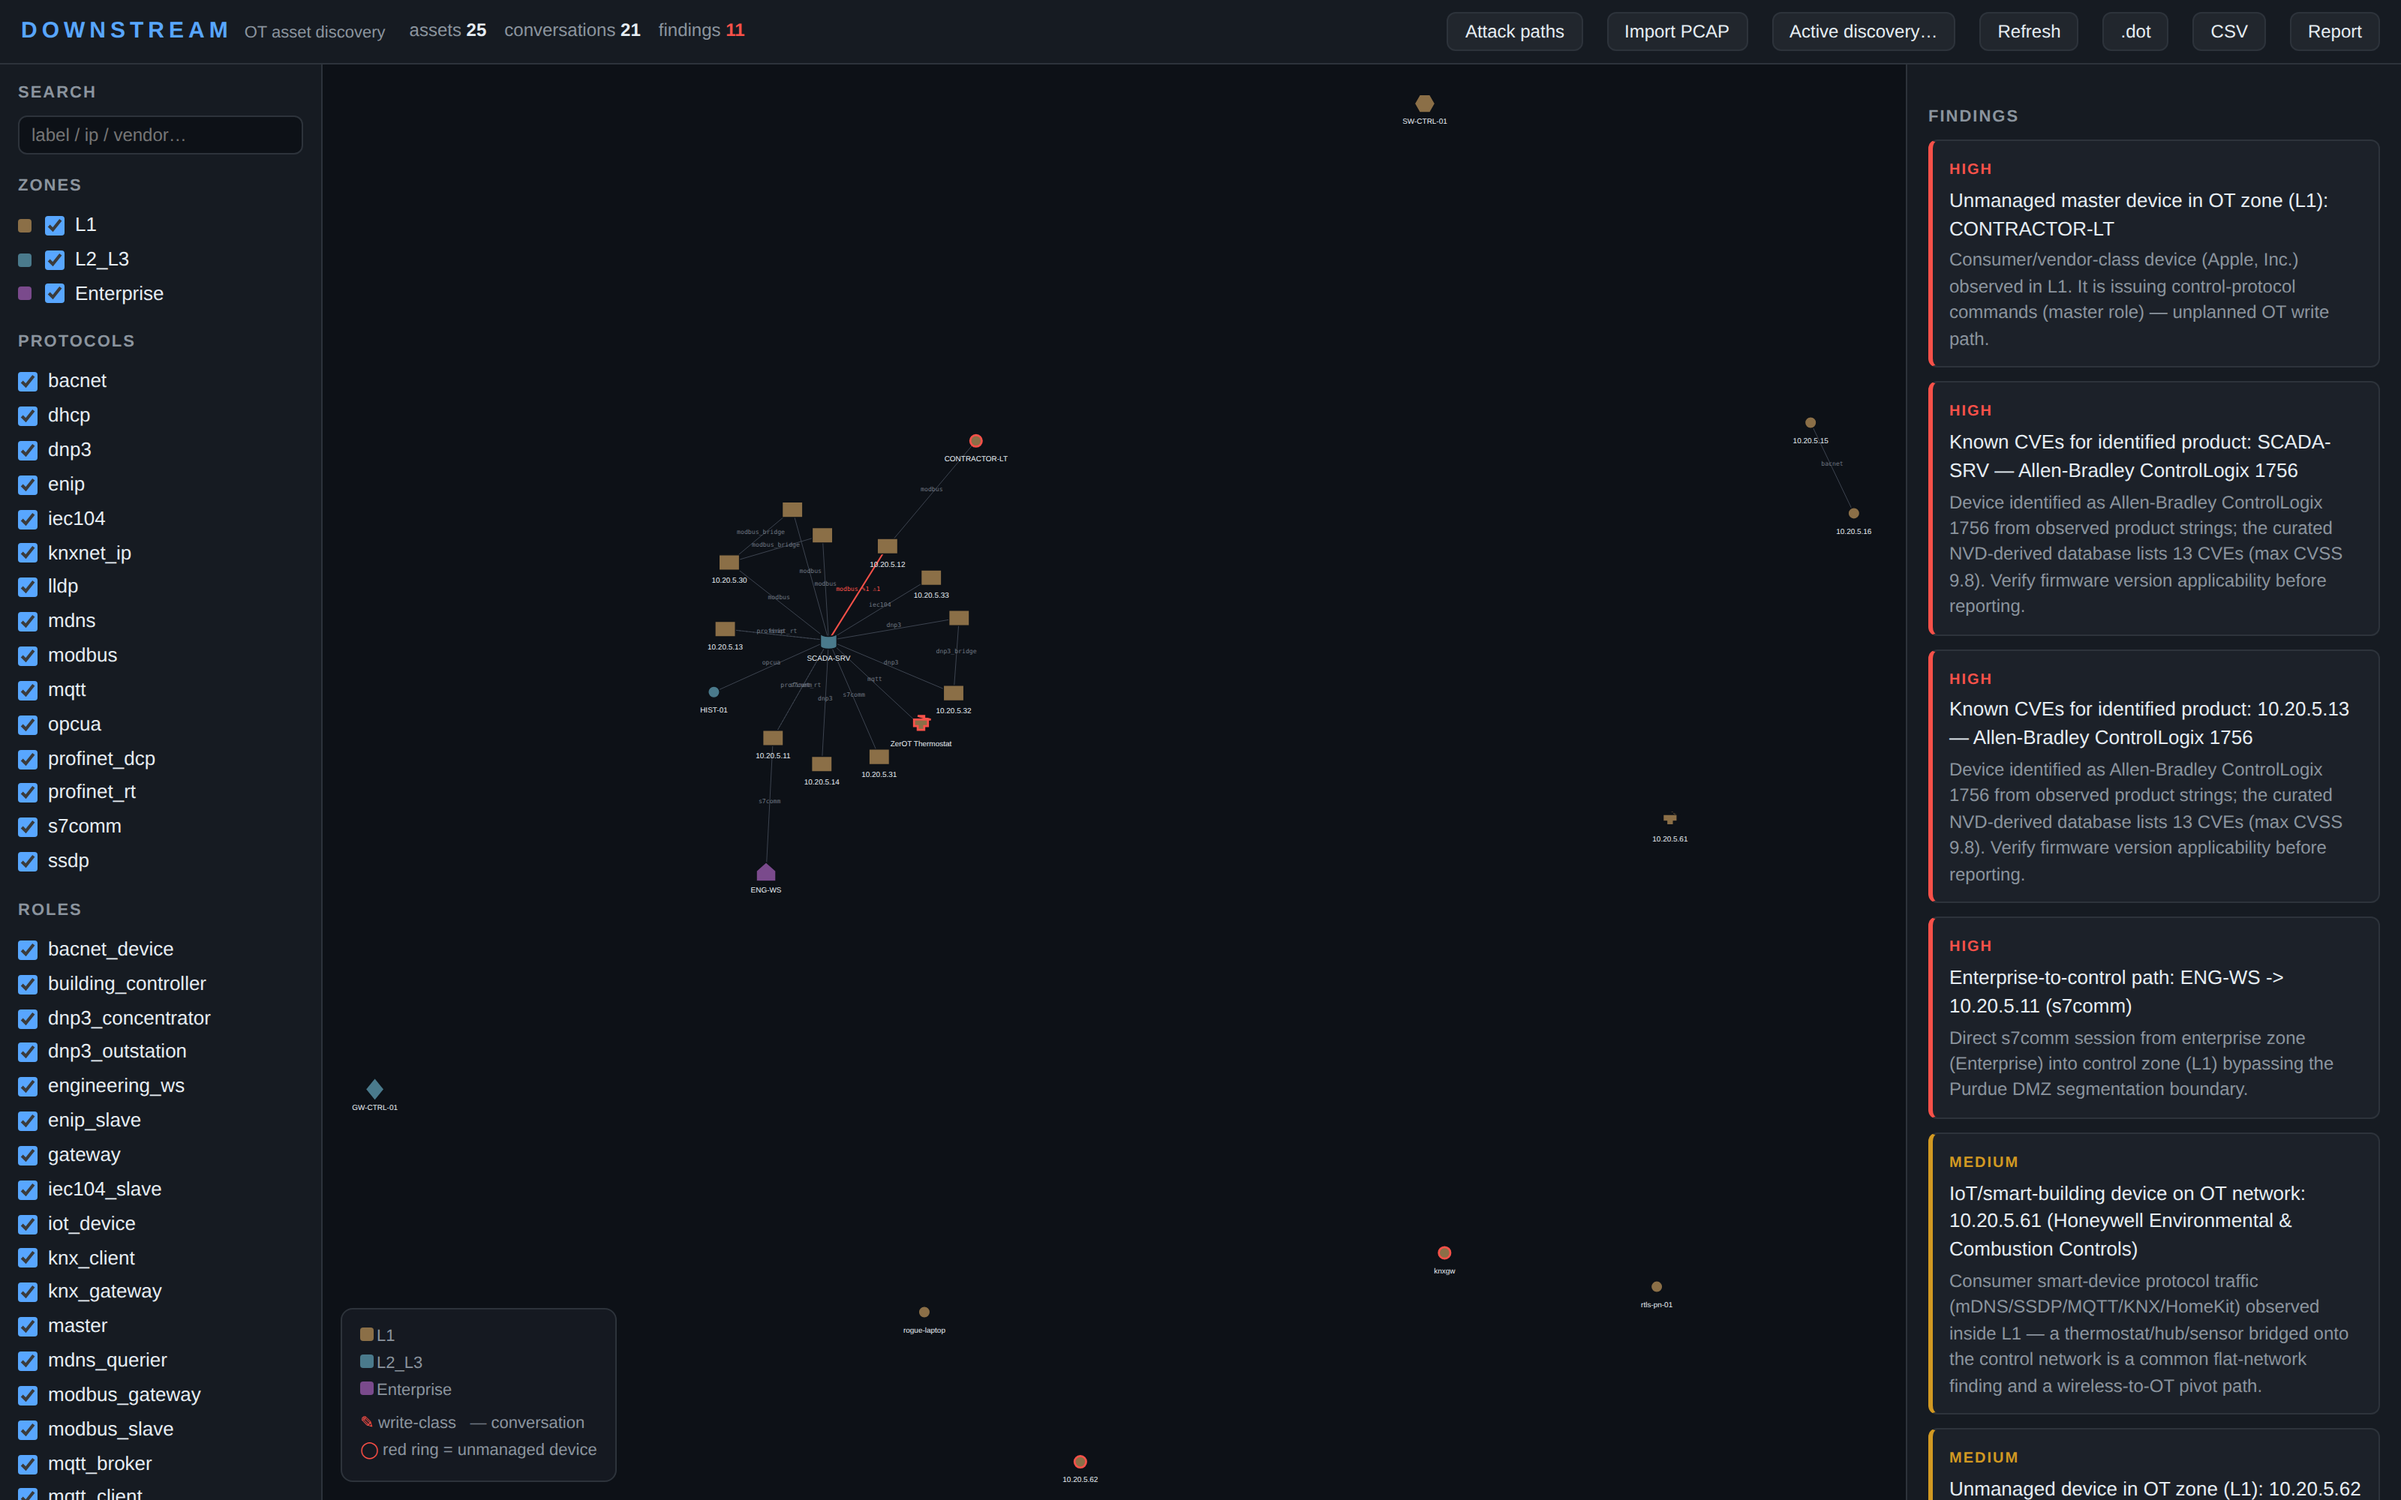
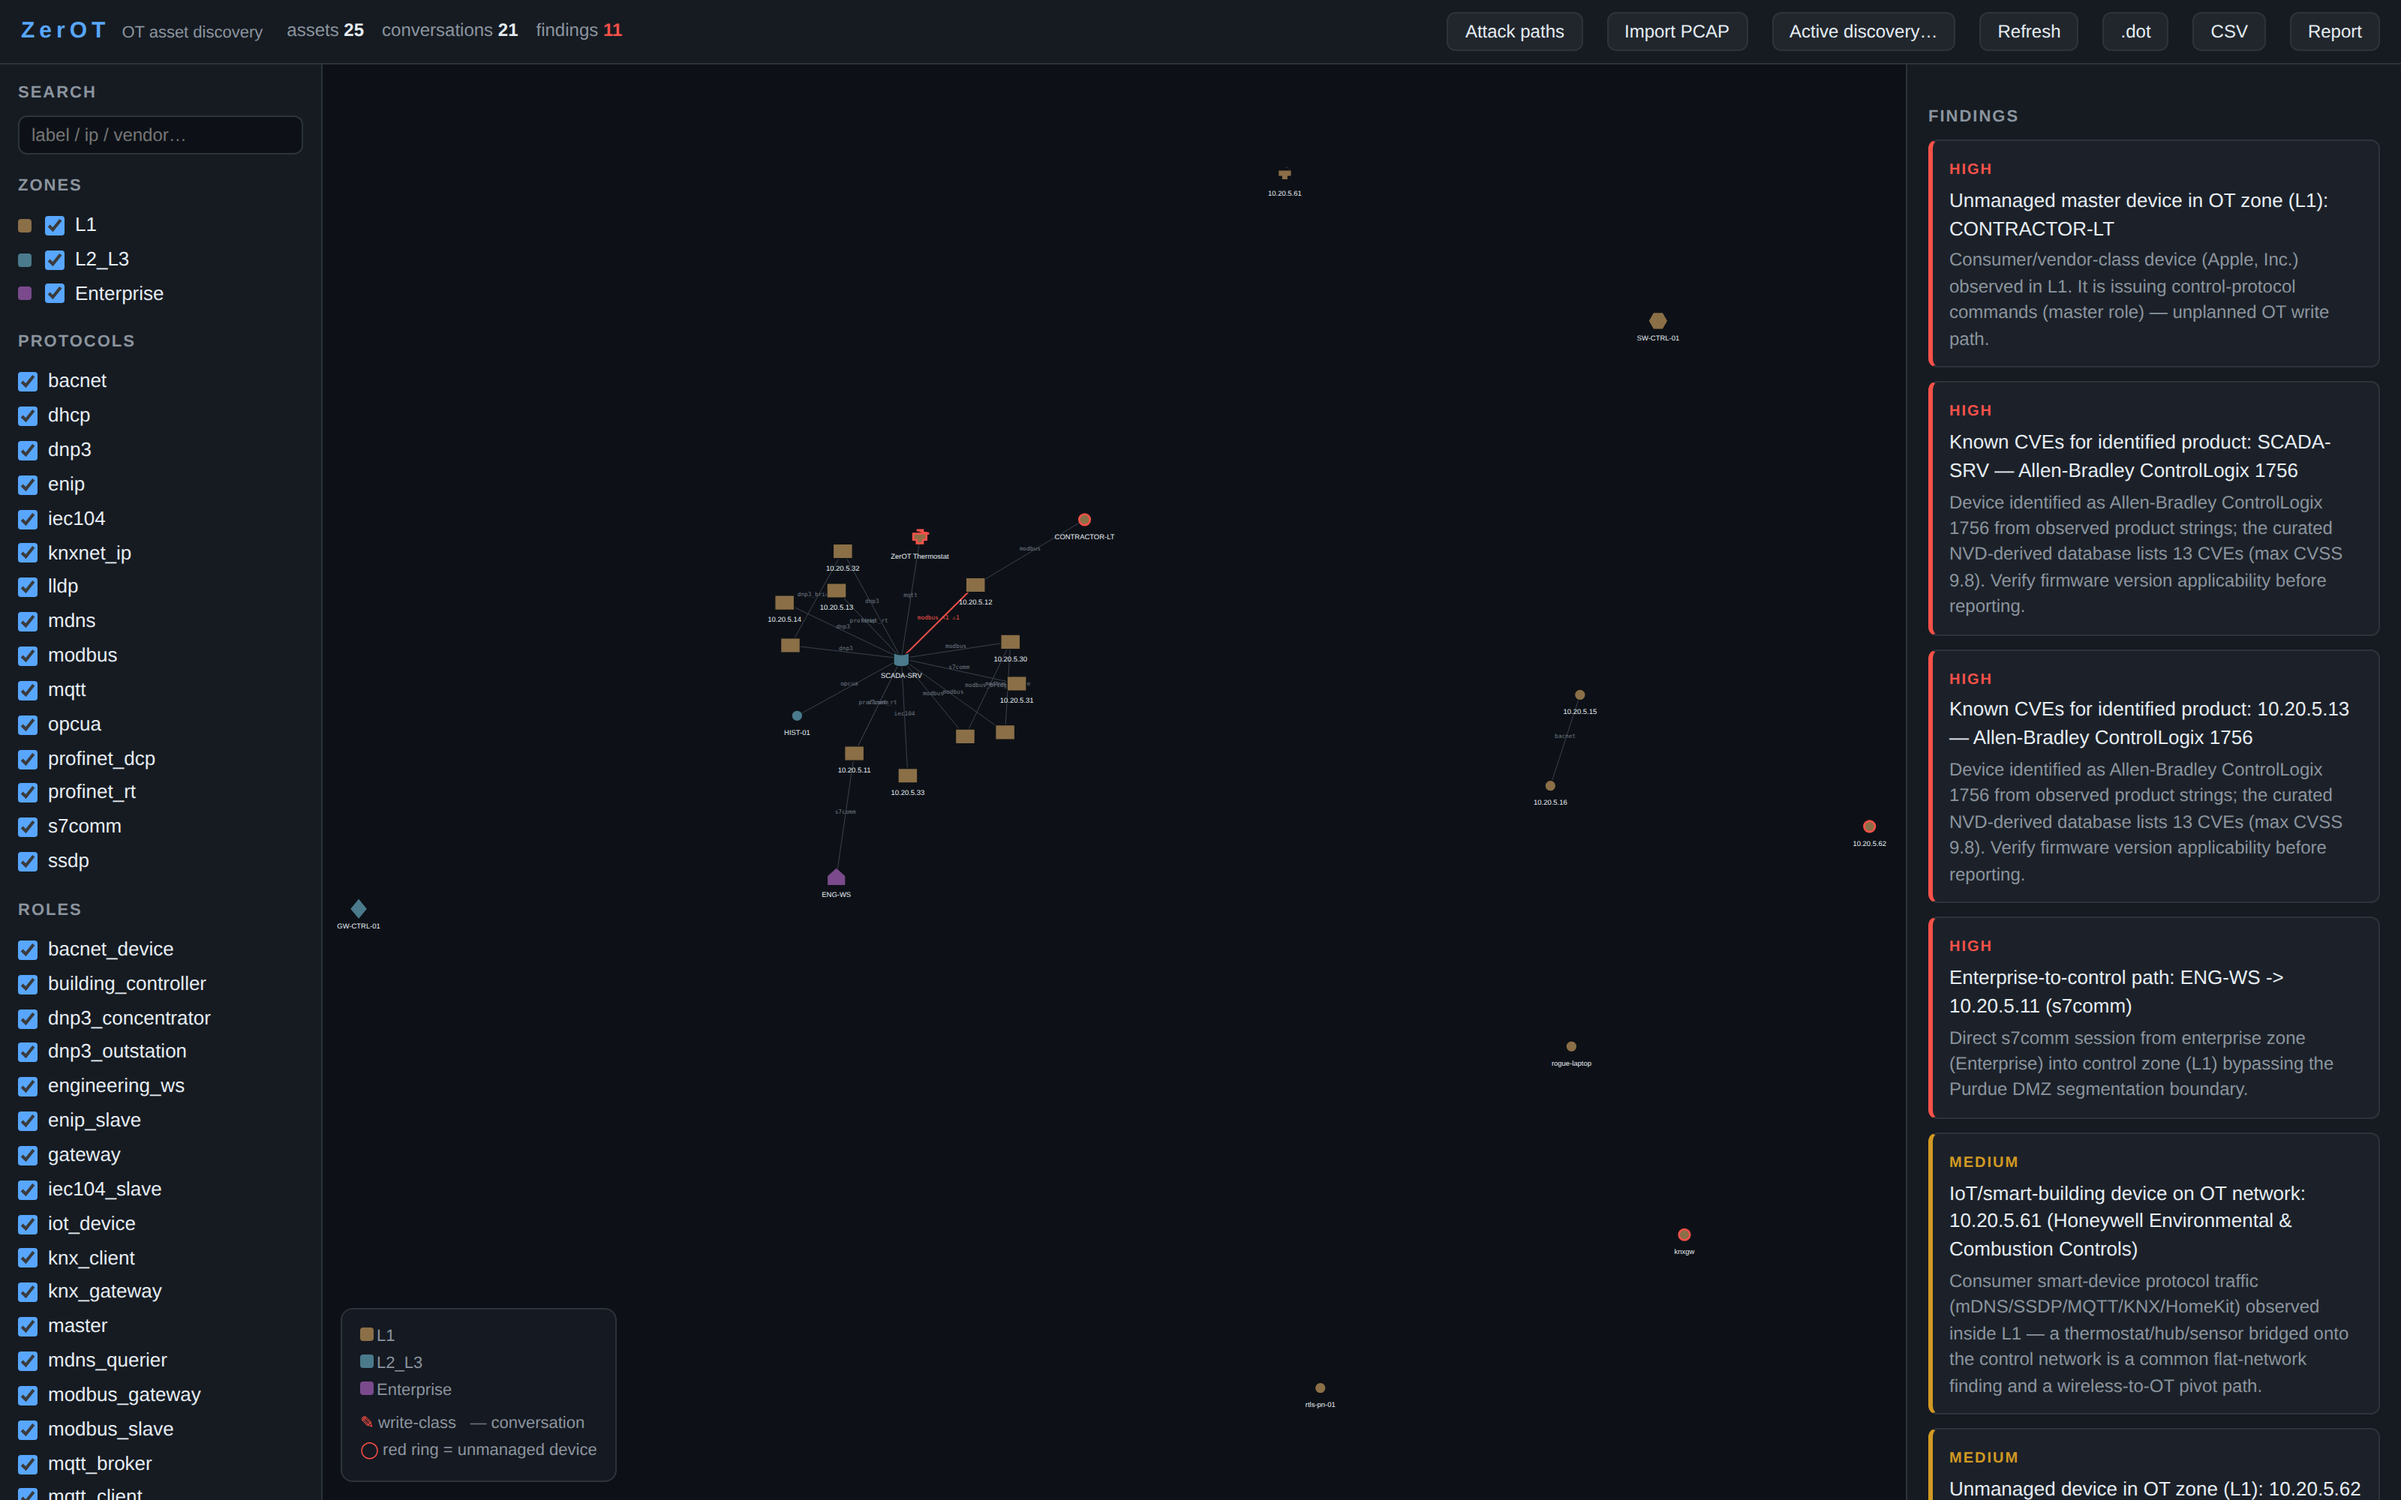
Finish UI rename: header + page title to ZerOT; re-shoot screenshots
- static/index.html <h1> and <title> now ZerOT (all-caps would bury
  the pun — header renders as ZerOT with the OT visible)
- scope.example.json name -> ZerOT demo plant
- screenshots regenerated from the renamed UI
- remaining 'Downstream' hits are NVD's own CVE wording (data only)

Changed region(s): [[0.2812, 0.341, 0.4375, 0.527], [0.0, 0.0, 0.3125, 0.031], [0.4375, 0.341, 0.4688, 0.372]]

diff --git a/static/index.html b/static/index.html
@@ -3,7 +3,7 @@
 <head>
 <meta charset="utf-8">
 <meta name="viewport" content="width=device-width, initial-scale=1">
-<title>Downstream — OT asset graph</title>
+<title>ZerOT — OT asset graph</title>
 <script src="/static/vendor/d3.v7.min.js"></script>
 <style>
   :root {
@@ -75,7 +75,7 @@
 </head>
 <body>
 <header>
-  <h1>DOWNSTREAM<span>OT asset discovery</span></h1>
+  <h1>ZerOT<span>OT asset discovery</span></h1>
   <div class="stats">
     <div>assets <b id="st-assets">0</b></div>
     <div>conversations <b id="st-edges">0</b></div>
